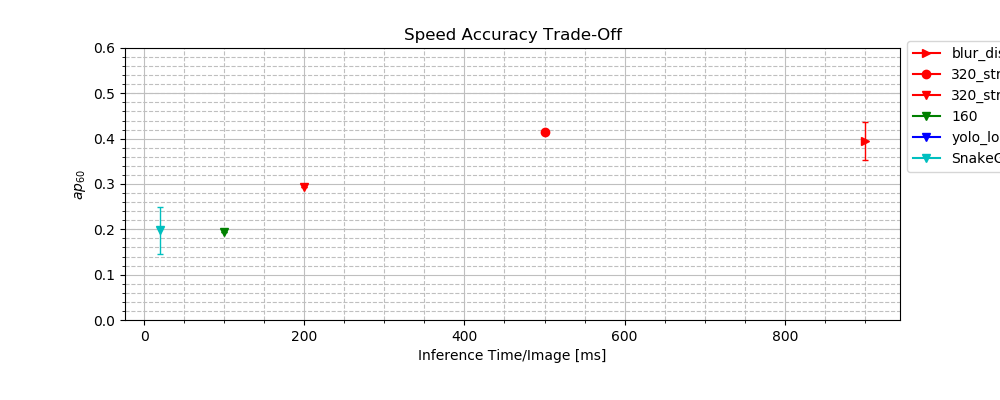
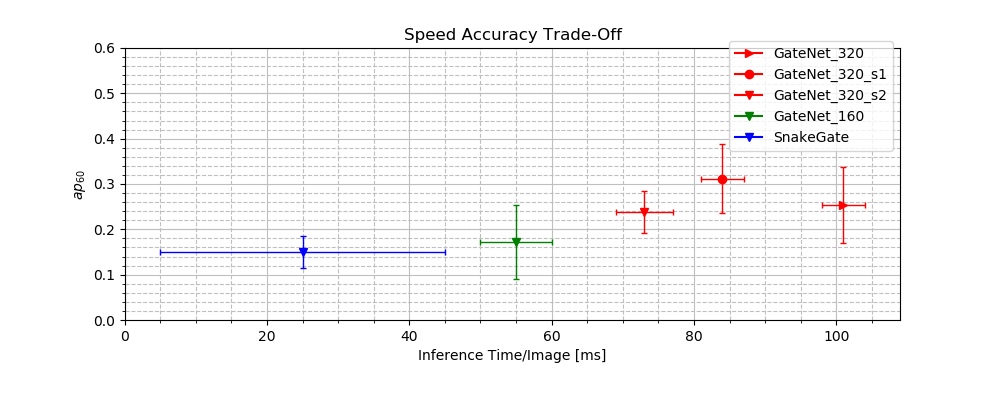
loving it

diff --git a/doc/thesis/chapters/experiments.tex b/doc/thesis/chapters/experiments.tex
@@ -200,7 +200,7 @@ x = \mathcal{U}(-30,30),\quad y = \mathcal{U}(-20,20),\quad z = \mathcal{N}(-4.5
 \end{equation}
 Where $\mathcal{U}(a,b)$ is a uniform distribution with borders $a$ and $b$; $\mathcal{N}(\mu,\sigma)$ a Gaussian distribution with mean $\mu$ and variance $\sigma$. The labels are compared to the ones from the synthetic dataset described in \Cref{sec:datasets}.
 
-For \textit{Simulated Flight} the dynamic model of a quadcopter is used \footnote{The model has been developed next to this work which is why it is not described here further. The interested reader is referred to }\todoref{quad model}. Several race courts are created and the camera follows a predefined trajectory through these race courts.
+For \textit{Simulated Flight} the dynamic model of a quadcopter is used. Several race courts are created and the camera follows a predefined trajectory through these race courts.
 
 \begin{figure}
 	\begin{minipage}{\textwidth}
@@ -223,7 +223,7 @@ We investigate to what extent the detector can generalize across view points. We
 
 Training sets with 20 000 samples each are created using \textit{Random Placement} and \textit{Simulated Flight}. The scenes are created with the environments introduced in \Cref{sec:environments}. Additionally, the background textures are varied during data generation. For \textit{Random Placement} the gates are placed throughout the room, subsequently the camera is placed according to \Cref{eq:distroexp}. For \textit{Simulated Flight} 3 race courts with corresponding trajectories are created. It should be noted that the race court present in the test set is not part in either of the training sets. 
 
-\todo{what did we train what excluded?}.
+During data generation it can happen that the camera ends up at a view point where the object is only visible as a dot or a straight line. Including such samples in the training confused the detector in initial experiments. Therefore, we set a limit to aspect ratio and bounding box size. For \textit{RandomPlacement} samples outside that limit are excluded, for \textit{SimulatedFlight} only the labels are removed. The aspect ratio is limited to a minimum  of $\frac{1}{3}$ a maximum of 3.0. For the object size a minimum of 1 \% of the image size is chosen.
 
 
 \subsection{Results}
@@ -264,7 +264,7 @@ Furthermore, we investigated whether the detector can learn to detect the object
 
 
 \section{Optimizing the Architecture}
-
+\label{sec:exp_arch}
 The baseline network architecture is optimized to detect solid feature rich objects of multiple classes. In order to sufficiently represent and distinguish such complex objects many weights are required. This leads to a high computational complexity and longer inference time. Also, more weights require typically more data to train and are more prune to overfit to a training set. The features of \acp{EWFO} are relatively simple hence less weights should be required. This section investigates whether equal performance can be reached when using a more shallow/thinner architecture.
 
 The width in a \acp{CNN} determines how many features can be extracted in one layer. Wider networks can extract and retain more information than thinner layers. As the information in \acp{EWFO} is limited to basic geometric shapes and colour, we hypothesize a thinner network should be able to learn the detection task equally well. Only when reducing the width too strong the performance should drop significantly as a minimum of weights is required. We examine this by reducing the number training networks with a thinner architecture. Therefore the number of filters in each layer of the \textit{SmallYoloV3} network are reduced to $\frac{1}{2}$, $\frac{1}{4}$, $\frac{1}{8}$ and $\frac{1}{16}$ of its original number. The network is trained on the training set consisting of various racing courts. All architectures are tested on the simulated \ac{MAV} race introduced in \Cref{sec:datasets}.
@@ -334,7 +334,7 @@ The detector is trained with 20 000 samples where 3000 are generated with the ne
 Initial experiments show relatively poor results on the \textit{Hallway} dataset. In this data set the objects are placed in front of a window which causes the objects to appear quite dark. Also the background is light and contains many details. We hypothesize that the lack of colour and the background confuse the detector. In order to examine two additional networks are trained:
 
 \begin{itemize}
-	\item \textit{Gray} is trained by transforming 50\% of the images to grayscale images during training. This should force the network to learn more colour invariant features and thus improve the results on the \textit{Hallway} dataset. 
+	\item \textit{Grey} is trained by transforming 50\% of the images to grayscale images during training. This should force the network to learn more colour invariant features and thus improve the results on the \textit{Hallway} dataset. 
 	\item \textit{VOC Background} is trained by including the images created with backgrounds chosen from the VOC dataset (\Cref{sec:exp_background}. We hypothesize that by providing more variance in the background, the network will be more robust against details in the background. This should improve the results on the \textit{Hallway} dataset.
 \end{itemize}
 
@@ -412,28 +412,27 @@ Particularly for \textit{Cyberzoo} and \textit{Hallway} the variance in the resu
 
 In this experiment the detector is evaluated on real data. Compared to simulation, only on \textit{Cyberzoo} comparable results can be achieved. On the more difficult data sets \textit{Hallway} and \textit{Basement} the performance drop is quite significant. On \textit{Hallway} almost no detection can be achieved. Hence, there seems to still be a big reality gap.
 
-Several image augmentation techniques are applied in order to bridge this gap. Thereby \textit{distortion} and \textit{grey} lead to an improvement. With \textit{grey} affecting the colour feature this would mean the network trained without augmentation overfitted to the colour in simulation. If that is the case the network trained with 
+Where exactly the gap lays in is difficult to identify. Among image augmentation that addresses the colour feature such as \textit{HSV} and \textit{Grey} only \textit{Grey} leads to an improvement. Thereby the main improvement is obtained on the \textit{Cyberzoo} dataset where illumination/colour is of smaller influence. 
 
-One difference is the colour. Especially on the \textit{Hallway} data set the objects do not appear orange. In contrast in \textit{Cyberzoo} the colour is very distinctive. Image augmentation techniques that mainly address this feature are variations in \ac{HSV}, chromatic aberration and including grey images. If the network overfits to the colour in the simulated set one would expect that any of these methods leads to an
+Lens distortion and blurring leads to an overall improvement on the datasets. However, the improvement cannot be particularly appointed to certain samples that suffer from heavy distortion or motion blur. Also, a high variance in the results can be observed which makes it difficult to conclude something. This holds especially for \textit{Basement} and \textit{Hallway} which are comparable small data sets. Potentially a more sophisticated real world test set could give better insights.
 
-Overall the best results are achieved in \textit{Cyberzoo}. This is not surprising as there the light conditions are relatively easy. The background is black and the object is clearly visible. With the colour being a significant feature in this data set, it is even more surprising that the network trained with \textit{Gray} augmentation here achieves the highest results.
+For \textit{Hallway} the results are particularly low. We hypothesized that the reason is the noise in the background and that including backgrounds from the Pascal VOC dataset can lead to an improvement on this dataset. However, including these samples seem to further confused the detector. The results deteriorate. On \textit{Hallway} the images are also taken against light background which makes the gate appear dark. We hypothesized that including grey images in the training improves the results on this dataset. We can observe an improvement from 8\% to 16\% by applying this technique. Hence, it seems that the technique helped a bit however it is not the predominant problem on this dataset.
 
-\textit{Basement} has more difficult light conditions and more overlapping objects. Compared to that the performance difference to \textit{Cyberzoo} is relatively low. In \textit{Hallway} the light conditions are very difficult as the objects stand in front of the window. The detector seems to struggle with this too. Several networks achieve an average precision of 0. It seems that despite having similar examples in the training set, the detector can not transfer the results to the real world.
+Compared to \textit{SnakeGate} the network achieves better results. Especially, when including distortion the results improve by 10\%. Hence, the learning based detector seems to have learned a more robust detection of the racing gates.
 
-Applying image augmentation seems to help bridging this gap as the results improve when applying these techniques. Thereby certain techniques are more suitable than others. Distortion and blur are the most significant effects that could also be observed when visually inspecting the dataset. Correspondingly the respective image augmentation techniques show the most improvement. Other techniques were mainly included as other authors reported improvements not because such effects could be observed in the dataset. These effects also showed minor improvements.
-
-Surprisingly, the methods that vary colour are of minor effect. As this is a relatively distinctive feature in simulation one would have expected the detector is more sensitive to it.
-
-
+In several examples in \Cref{fig:example_cyberzoo,fig:example_basement,fig:example_hallway} it can be seen how clearly visible objects are not detected. In simulation this is less of a problem. Hence, it seems that there is still a gap between the simulated data and the one present in the real world.
 
 \subsection{Conclusion}
 
-We investigated how the detector performs in the real world and if image augmentation can bridge the reality gap. We can conclude that image augmentation is crucial to avoid an overfitting to the dataset in simulation. In particular lens distortion and blur improve the detection on the real world data set.
+We investigated how the detector performs in the real world and if image augmentation can bridge the reality gap. We can conclude that image augmentation can improve the results on the real world data. In particular the modelling of lens distortion and the incorporation of grey images improve the results. Nevertheless, these results are preliminary as the variance in the results does not allow a final conclusion. Potentially, a more sophisticated test set could give more insights.
 
-The results obtained on \textit{Cyberzoo} and \textit{Hallway} are comparable to the ones achieved in simulation. However, on \textit{Hallway} the results are quite low. Hence, we can conclude that, the performance of the detector heavily depends on the applied environment. 
+In more difficult environments the performance drops significantly. Also, several clearly visible objects can not be detected. As this typically not happens in simulation we can conclude that there is still a large reality gap. Potentially, the results can be improved when including real world data in the training set. Such experiments should be conducted in future work.
+
+Overall an improvement of the learning based detector compared to the baseline can be reported. The results in simulation show potential further improvement with better training data.
+
 
 \section{Deploying the detector on a \ac{MAV}}
-
+\}
 In the application of the detection of \acp{EWFO} on a \acp{MAV} detection accuracy is only one important metric. Equally relevant are inference speed and energy requirements. The example control loop in which the detector of this work is integrated, contains a filtering stage which fuses measurements of different sensors over time to infer a global state. This stage can deal with outliers and henceforth it can be more important to have more bad detections in high frequency than only slow but good ones. This section studies the deployment of a detector for \acp{EWFO} on a \ac{MAV} in the example of the target system of this work. Therefore the performance-accuracy trade-off is studied and an experiment in a real world flight is conducted.
 
 As explained in \Cref{sec:background} the execution time strongly depends on the used hardware as well as its low level implementation. Therefore the inference time of several layers is measured on the JeVois using the \textit{Darknet} framework. The results are displayed in \Cref{fig:bottleneck_jevois}. Each sample corresponds to the number of computations and their computational time in one layer. Dashed lines connect samples at the same resolution. It is apparent how the same amount of computations at a spatial resolution of 20x15 is more than 4 times faster than at a resolution of 160x120. We assume this is because parallelism is better exploited at the lower scale.
@@ -445,15 +444,19 @@ As explained in \Cref{sec:background} the execution time strongly depends on the
 	\label{fig:bottleneck_jevois}
 \end{figure}
 
-This means most speed can be gained when reducing the number of computations in the early layers where the spatial resolution is high. In earlier experiments it could be seen that already a small amount of filters is enough to detect \acp{EWFO}. However, even evaluating 4 kernels at a resolution of 320x240 already takes 55 ms (\Cref{fig:bottleneck_jevois} red triangle). A total network of that size would require more than 200 ms and is thus too slow to be deployed in the control loop.
+This means most speed can be gained when reducing the number of computations in the early layers where the spatial resolution is high. In \Cref{sec:exp_arch} it could be seen that already a small amount of filters in the early layers is enough to detect \acp{EWFO}. However, even evaluating 4 kernels at a resolution of 320x240 already takes 55 ms (\Cref{fig:bottleneck_jevois} red triangle). A total network of that size would require more than 100 ms and is thus too slow to be deployed in the control loop.
 
 Current research mostly addresses to reduce the computations when the convolved volumes are deep or the operations are performed on \acp{CPU} that do not support floating point operations. However, the bottleneck on the JeVois happens at shallow volumes and the hardware can perform floating point operations. Furthermore, \acp{EWFO} consist of thin elements that are spread over large parts of the image. Hence, we hypothesize that simply reducing the image resolution will lead to large drops in performance. An alternative is to increase the stride parameter in the early layers of the network. This reduces the number of locations at which the kernel is evaluated. \acp{EWFO} are sparse and spread over large parts of the image, while most of the image does not contain useful information. Hence, we hypothesize that increasing the stride parameter in the early layers will perform better than reducing the image resolution.
 
-In order to evaluate our hypotheses the network is trained with different architectures. Subsequently, performance and inference time on the JeVois are measured.
+In order to evaluate our hypotheses the network is trained with different architectures. Subsequently, performance on the real data and inference time on the \textit{JeVois} are measured.
 
-The JeVois supports aspect ratios of 4:3 and resolutions of 160x120, 320x240 and 640x480. Although, \ac{FCN} do not depend on the image resolution, the object appearance can change at lower image resolution. Hence, during training the images are scaled to 160x160 or 320x320 respectively. The anchor boxes are scaled in similar fashion. Finally, as the input image resolution decreases, the output grid size decreases by the same factor. This is not desirable as the output resolution should stay the same. Hence, when decreasing the input image to 160x160 we remove the last pooling layer such that the output grid stays at 20,20 or 10,10 respectively.
+The \textit{JeVois} supports aspect ratios of 4:3 and resolutions of 160x120, 320x240 and 640x480. Although, the detector does not depend on the image size, the object appearance can change at lower image resolution. Hence, during training the images are scaled to 160x160 or 320x320 respectively. The anchor boxes are scaled in similar fashion. Finally, as the input image resolution decreases, the output grid size decreases by the same factor. This is not desirable as the output resolution should stay the same. Hence, when decreasing the input image pooling layers are removed such that the output grid stays at 20,20 or 10,10 respectively.
 
 \section{Results}
+
+\Cref{fig:ap_speed_tradeoff} shows the results of the conducted experiments. Next to the different architectures time and performance of \textit{SnakeGate} are given. \textit{SnakeGate} has high variance in time as its execution time depends on the colour filter stage. If no object is visible and everything is filtered by the colour filter  \textit{SnakeGate} has an execution time of less than 1ms. For detections however some minimum execution time is required.
+
+The plot shows how the different networks are generally slower than \textit{SnakeGate}. Only the network applied at 160x120 gets with 55 ms/frame near the maximum execution time of \textit{SnakeGate}. In terms of average precision the networks show a better performance. The best results of 32\% can be obtained by the network with one stride layer. Replacing more pooling layers with larger strides leads to a drop in performance but an increase of inference speed.
 
 \begin{figure}[hbtp]
 	\centering
@@ -462,12 +465,12 @@ The JeVois supports aspect ratios of 4:3 and resolutions of 160x120, 320x240 and
 	\label{fig:ap_speed_tradeoff}
 \end{figure}
 
-Due to their computational complexity deploying a \acp{CNN} on mobile devices is a challenging task
-
-
 
 \subsection{Discussion}
 
+In this section different methods to increase the speed of the detector were investigated. As expected the performance is better when keeping a higher resolution but increasing the stride parameter. At a resolution of $160\times120$ the performance of the detector drops almost to the level of \textit{SnakeGate}. In contrast the network with one stride layer achieves the best results.
+
+Replacing the first pooling layers with larger strides gives a speed up of 17 ms/frame
 
 \subsection{Conclusion}
 
